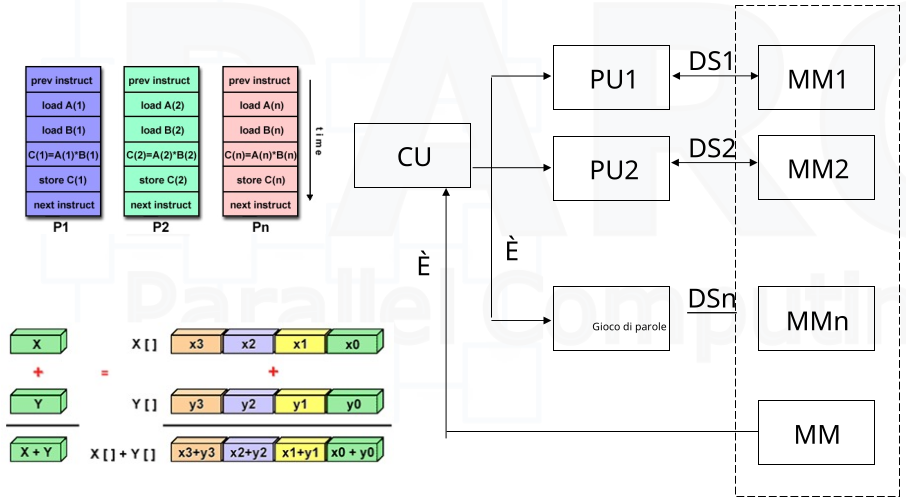
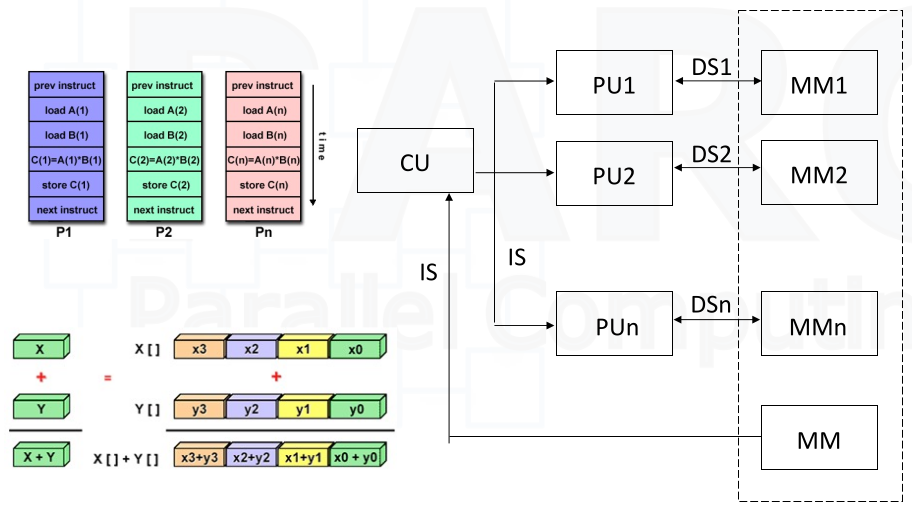
quasi finito cap 3

diff --git a/terminologia.tex b/terminologia.tex
@@ -17,14 +17,14 @@ Nella tassonomia di Flynn, vengono identificate cinque componenti:
 \end{enumerate}
 Le possibili classificazioni sono:
 \begin{enumerate}
-	\item SISD (Single Instruction Single Data): la CU recupera le istruzioni dalla MM, mentre la PU esegue le istruzioni interagendo con MM per modificare i dati;
+	\item SISD (Single Instruction Single Data): la CU recupera le istruzioni dalla MM, mentre la PU esegue le istruzioni interagendo con MM per modificare i dati (figura \ref{fig:sisd});
 	\begin{figure}[th]
 		\centering
 		\includegraphics[width=0.7\linewidth]{img/sisd}
 		\caption{Single Istruction Single Data.}
 		\label{fig:sisd}
 	\end{figure}
-	\item SIMD (Single Instruction Multiple Data): tutte le unità di elaborazione eseguono la stessa istruzione in ogni dato ciclo di clock; ogni unità di elaborazione può operare su un dato diverso;
+	\item SIMD (Single Instruction Multiple Data): tutte le unità di elaborazione eseguono la stessa istruzione in ogni dato ciclo di clock; ogni unità di elaborazione può operare su un dato diverso (figura \ref{fig:simd}); è ideale per problemi specializzati caratterizzati da un elevato grado di regolarità, come l'elaborazione grafica o l'elaborazione di immagini; esecuzione sincrona (\textbf{lockstep}) e deterministica
 	\begin{figure}[th]
 		\centering
 		\includegraphics[width=0.7\linewidth]{img/simd}
@@ -32,7 +32,7 @@ Le possibili classificazioni sono:
 		\label{fig:simd}
 	\end{figure}
 
-	\item MISD (Multple Instruction Single Data): un singolo flusso di dati viene immesso in più unità di elaborazione che opera sui dati in modo indipendente tramite flussi di istruzioni indipendenti. Sono esistiti pochi esempi reali di questa classe di computer paralleli;
+	\item MISD (Multple Instruction Single Data): un singolo flusso di dati viene immesso in più unità di elaborazione che opera sui dati in modo indipendente tramite flussi di istruzioni indipendenti. Sono esistiti pochi esempi reali di questa classe di computer paralleli (figura \ref{fig:misd});
 	\begin{figure}[th]
 		\centering
 		\includegraphics[width=0.7\linewidth]{img/misd}
@@ -40,7 +40,14 @@ Le possibili classificazioni sono:
 		\label{fig:misd}
 	\end{figure}
 
-	\item MIMD (Multple Instruction Multple Data): è il tipo più comune di computer parallelo; ogni processore può eseguire un flusso di istruzioni diverso e lavorare con un flusso di dati diverso. L'esecuzione può essere sincrona o asincrona, deterministica o non deterministica.
+	\item MIMD (Multple Instruction Multple Data): è il tipo più comune di computer parallelo; ogni processore può eseguire un flusso di istruzioni diverso e lavorare con un flusso di dati diverso. L'esecuzione può essere sincrona o asincrona, deterministica o non deterministica (figura \ref{fig:mimd}).
+	\begin{figure}[!th]
+		\centering
+		\includegraphics[width=0.7\linewidth]{img/mimd}
+		\caption{Multiple Instruction Multiple Data.}
+		\label{fig:mimd}
+	\end{figure}
+
 \end{enumerate}
 \subsection{Terminologia delle architetture parallele}
 
@@ -49,10 +56,10 @@ Le possibili classificazioni sono:
 		\textbf{Termine} & \textbf{Significato}
 		\\
 		\hline
-		\textbf{Task} & È un'unità di esecuzione o di lavoro di un programma o di un sottoprogramma.
+		\textbf{Task (sequenziale)} & È un'unità di esecuzione o di lavoro di un programma o di un sottoprogramma. Le istruzioni sono eseguite sequenzialmente ovvero non in parallelo.
 		\\
 		\hline
-		\textbf{Task parallelo}& È un task che può essere eseguito in modo sicuro da più processori.
+		\textbf{Task parallelo}& È un task che può essere eseguito in modo sicuro su più processori. Ciascuna istruzione di un task può essere eseguita in maniera concorrente.
 		\\
 		\hline
 		\textbf{Esecuzione seriale} & È l'esecuzione di un programma in sequenza, una dichiarazione alla volta. Nel senso più semplice questo accade su una macchina con un processore. Tuttavia, praticamente tutte le attività parallele avranno sezioni di un programma parallelo che devono essere eseguite in serie.
@@ -61,16 +68,122 @@ Le possibili classificazioni sono:
 		\textbf{Esecuzione parallela} & È l'esecuzione di un programma da più di un task, in cui ogni attività è in grado di eseguire la stessa o una diversa istruzione simultaneamente.
 		\\
 		\hline
-		\textbf{Pipelining} & Suddivisione di un compito in passaggi eseguiti da diverse unità di elaborazione, con input che scorrono proprio come una catena di montaggio; un tipo di calcolo parallelo.
+		\textbf{Pipelining} & Suddivisione di un compito in passaggi eseguiti da diverse unità di elaborazione, con input che scorrono proprio come una catena di montaggio; un tipo di calcolo parallelo.  La pipeline è un tipo di architettura hardware utilizzata nel progetto dei microprocessori per incrementarne la produttività, ovvero la quantità di istruzioni eseguite nell'unità di tempo. Le istruzioni possono essere di un programma sequenziale. La pipeline può riferirsi anche ad una pipeline di task (ottimizzazione per GPU).
 		\\
 		\hline
-		\textbf{Memoria condivisa} & Dal punto di vista strettamente hardware, descrive un'architettura informatica alla quale tutti i processori hanno accesso diretto (solitamente basato su bus) alla memoria fisica comune; dal punto di vista della programmazione, descrive un modello in cui le attività parallele hanno tutte la stessa "immagine" di memoria e possono indirizzarsi e accedervi direttamente alle stesse locazioni di memoria logiche indipendentemente da dove esiste effettivamente l memoria fisica.
+		\textbf{Memoria condivisa} & Dal punto di vista strettamente hardware, descrive un'architettura informatica alla quale tutti i processori hanno accesso diretto (solitamente basato su bus) alla memoria fisica comune; dal punto di vista software, descrive un modello in cui le attività parallele hanno tutte la stessa "immagine" di memoria (\textbf{spazio di indirizzamento comune}) e possono indirizzarsi e accedervi direttamente alle stesse locazioni di memoria logiche indipendentemente da dove esiste effettivamente la memoria fisica. Se lo spazio di indirizzamento non fosse condiviso, si parla di \textbf{memoria distribuita} (che è il contrario della memoria condivisa).
 		\\
 		\hline
 		\textbf{Multiprocessore simmetrico (SMP)} & Architettura hardware in cui più processori condividono un unico spazio di indirizzi e accedono a tutte le risorse; la computazione avviene su memoria condivisa.
 		\\
 		\hline
-		\textbf{Memoria distribuita} & Nell'hardware, si riferisce all'accesso alla memoria basato sulla rete per la memoria fisica che non è in comune. Come modello di programmazione, le attività possono solo "vedere" logicamente la memoria della macchina locale e devono utilizzare comunicazioni per accedere alla memoria su altre macchine su cui sono in esecuzione altre attività.
+		\textbf{Memoria distribuita} & Dal punto di vista hardware, si riferisce all'accesso alla memoria basato sulla rete per la memoria fisica che non è in comune. Il termine può fare riferimento anche ad un'implementazione software dove le attività possono vedere solo la memoria della macchina locale su una vista logica e devono utilizzare comunicazioni per accedere alla memoria su altre macchine su cui sono in esecuzione altre attività.
+		\\
+		\hline
+		\textbf{Comunicazione} & Le attività parallele in genere necessitano di scambiare dati. Esistono tuttavia diversi modi per ottenere questo risultato, ad esempio tramite un bus di memoria condiviso o tramite una rete, tuttavia l'evento effettivo dello scambio di dati viene comunemente definita \emph{comunicazione} indipendentemente dal metodo utilizzato.
+		\\
+		\hline
+		\textbf{Sincronizzazione} & È il coordinamento di attività parallele in tempo reale, molto spesso associato a comunicazioni. Spesso implementate da stabilire un punto di sincronizzazione all'interno di un'applicazione in cui un'attività non può procedere oltre finché un'altra attività non raggiunge lo stesso punto o logicamente equivalente. La sincronizzazione di solito comporta l'attesa di almeno un'altra attività e può quindi causare un aumento del tempo di esecuzione del clock delle applicazioni parallele.
+		\\
+		\hline
+		\textbf{Granularità} & Nel calcolo parallelo, la granularità è una misura quantitativa del rapporto tra il calcolo e la comunicazione. La granularità può essere:
+		\begin{itemize}
+			\item \textbf{grossolana:} tra gli eventi di comunicazione vengono eseguite quantità di lavoro computazionale relativamente grandi;
+			\item \textbf{fine:} tra gli eventi di comunicazione vengono eseguite quantità di lavoro computazionale relativamente piccole.
+		\end{itemize}
+		\\
+		\hline
+		\textbf{Accelerazione osservata} & È definita come: $speedup = \frac{execTimeSerial}{execTimeParallel}$ e rappresenta uno degli indicatori più semplici e utilizzati per la performance di un programma parallelo.
+		\\
+		\hline
+		\textbf{Overhead parallelo} & È l'ammontare di tempo richiesto per coordinare task paralleli anziché per eseguire la parte utile del lavoro. L'overhead parallelo può includere fattori come:
+		\begin{itemize}
+			\item tempo di avvio dei task;
+			\item tempo per le sincronizzazioni tra task;
+			\item tempo per le comunicazioni di dati tra task;
+			\item overhead del software imposto da compilatori paralleli, librerie, strumenti, sistema operativo, \dots
+			\item tempo di completamento dei task.
+		\end{itemize}
+		\\
+		\hline
+		\textbf{Massivamente parallelo} &  Si riferisce all'hardware che comprende un dato sistema parallelo, dotato di molti processori. Il significato di "molti" continua ad aumentare, ma attualmente i computer più grandi possono essere costituiti da processori che si contano nell'ordine di centinaia di migliaia.
+		\\
+		\hline
+		\textbf{Imbarazzantemente parallelo} & Indica l'azione di risolvere simultaneamente task simili ma indipendenti; la coordinazione tra task è quasi assente o completamente assente.
+		\\
+		\hline
+		\textbf{Scalabilità} & Si riferisce alla capacità di un sistema parallelo (HW e/o SW) di dimostrare un aumento proporzionale della velocità parallela con l'aggiunta di più processori. I fattori che contribuiscono alla scalabilità includono:
+		\begin{itemize}
+			\item HW: in particolare larghezze di banda della memoria-cpu e comunicazioni attraverso la rete;
+			\item l'algoritmo dell'applicazione;
+			\item relativo all'overhead parallelo;
+			\item caratteristiche specifiche dell'applicazione e codifica
+		\end{itemize}
+		\\
+		\hline
+		\textbf{Processori multi-core} & Processori in cui sono presenti più core su un singolo chip
+		\\
+		\hline
+		\textbf{Computazione in cluster} & Utilizzo di una combinazione di unità di calcolo di base (processori, reti o SMP) per costruire un sistema parallelo.
+		\\
+		\hline
+		\textbf{Supercomputing / Calcolo ad alte prestazioni} & Utilizzo delle macchine più veloci e più grandi al mondo per risolvere problemi molto complessi (le unità di calcolo di cui sono composti non devono necessariamente essere omogenei).
+		\\
+		\hline
+		\textbf{Edge computing} & Distribuire il paradigma informatico che avvicina il calcolo e l'archiviazione dei dati al luogo in cui si trovano. Necessario per migliorare i tempi di risposta e risparmiare larghezza di banda.
 		\\
 		\hline
 	\end{longtable}
+\subsubsection{Tipi di memoria}
+La \textbf{cache} è un'area di memoria estremamente veloce ma solitamente di un basso ordine di grandezza di capacità. Il suo scopo è di velocizzare l'esecuzione dei programmi.
+
+La figura \ref{fig:uma} è un esempio di memoria condivisa. I computer paralleli con memoria condivisa variano ampiamente, ma generalmente hanno in comune la capacità di tutti i processori di accedere a tutta la memoria come spazio di indirizzi globale. Più processori possono funzionare in modo indipendente ma condividono le stesse risorse di memoria. Le modifiche in una posizione di memoria effettuate da un processore sono visibili a tutti gli altri processori. Le macchine a memoria condivisa possono essere divise in due classi principali in base ai tempi di accesso alla memoria:
+\begin{enumerate}
+	\item UMA (Unified Memory Access): i processori sono identici, il tempo e la modalità di accesso alla memoria sono gli stessi per tutti i processori (figura \ref{fig:uma}). A volte chiamato \textbf{CC-UMA} (\emph{Cache Coherent UMA}). \textbf{Coerenza} della cache significa che se un processore aggiorna una posizione nella memoria condivisa, tutti gli altri processori vengono a conoscenza dell'aggiornamento. La coerenza della cache viene raggiunta a livello hardware.
+	\begin{figure}[th]
+		\centering
+		\includegraphics[width=0.7\linewidth]{img/UMA}
+		\caption{Memoria condivisa di classe UMA.}
+		\label{fig:uma}
+	\end{figure}
+	\item NUMA (Not Unified Memory Access): spesso realizzato collegando fisicamente due o più SMP; un SMP può accedere direttamente alla memoria di un altro SMP. Non tutti i processori hanno lo stesso tempo di accesso a tutte le memorie. L'accesso alla memoria attraverso il bus è più lento. Se viene mantenuta la coerenza della cache, la memoria si dice \textbf{CC-NUMA} (\emph{Cache Coherent NUMA}).
+	\begin{figure}[th]
+		\centering
+		\includegraphics[width=0.7\linewidth]{img/NUMA}
+		\caption{Memoria condivisa di classe NUMA.}
+		\label{fig:numa}
+	\end{figure}
+\end{enumerate}
+	\subsubsection{Vantaggi e svantaggi di una memoria condivisa.} Vantaggi di avere una memoria condivisa sono:
+	\begin{itemize}
+		\item lo spazio degli indirizzi globale fornisce alla memoria una prospettiva di programmazione user-friendly; \item la condivisione dei dati tra le attività è veloce e uniforme alla vicinanza della memoria alle CPU.
+	\end{itemize}
+	Gli svantaggi sono:
+	\begin{itemize}
+		\item mancanza di scalabilità tra memoria e CPU; \item diventa sempre più difficile e costoso progettare e produrre macchine a memoria condivisa con un numero sempre crescente di processori.
+	\end{itemize}
+
+Come i sistemi di memoria condivisa, i sistemi di memoria distribuita variano ampiamente ma condividono una caratteristica comune. Per connettere la memoria inter-processore, il sistema richiede una rete di comunicazione.
+I processori hanno la propria memoria locale. Gli indirizzi di memoria in un processore non vengono mappati su un altro processore, quindi non esiste il concetto di \textbf{spazio degli indirizi globale} su tutti i processori.
+
+Poiché ogni processore ha la propria memoria locale, funziona in modo indipendente. Le modifiche apportate alla memoria non hanno effetto sulla memoria degli altri processori. Pertanto, il concetto di coerenza della cache non si applica.
+Quando un processore ha bisogno di accedere ai dati in un altro processore, solitamente è compito del programmatore definire esplicitamente come e quando i dati vengono comunicati. Anche la sincronizzazione tra i compiti è responsabilità del programmatore.
+
+\subsubsection{Vantaggi e svantaggi di una memoria distribuita.} I vantaggi di avere una memoria distribuita sono:
+\begin{itemize}
+	\item la \textbf{memoria} è \textbf{scalabile} con il numero di processori; \item aumenta il numero di processori e la dimensione della memoria aumenta proporzionalmente; \item ogni processore può accedere rapidamente alla propria memoria senza interferenze e senza il sovraccarico sostenuto nel tentativo di mantenere la coerenza della cache. \item in termini di costi, la memoria distribuita è efficace, poiché può utilizzare processori e reti standard disponibili in commercio.
+\end{itemize}
+Gli svantaggi sono i seguenti:
+\begin{itemize}
+	\item il programmatore è responsabile per molti dei dettagli associati alla comunicazione dei dati tra i processori. \item potrebbe essere difficile mappare su questa organizzazione della memoria le strutture dati esistenti, basate sulla memoria globale; \item tempi di accesso alla memoria non uniforme (NUMA).
+\end{itemize}
+\subsubsection{Memoria ibrida distribuita-condivisa} I computer più grandi e veloci del  mondo oggi impiegano questo tipo di architettura (figura \ref{fig:hybrid-memory}). Il componente di memoria condivisa è solitamente una macchina SMP coerente con la cache. I processori su un dato SMP possono indirizzare la memoria di quella macchina come globale.
+
+\begin{figure}[th]
+	\centering
+	\includegraphics[width=0.7\linewidth]{img/hybrid-memory}
+	\caption{Memoria ibrida distribuita-condivisa.}
+	\label{fig:hybrid-memory}
+\end{figure}
+
+Il componente di memoria distribuita è il collegamento in rete di più SMP. Gli SMP conoscono solo la propria memoria, non quella di un altro SMP. Pertanto, le comunicazioni di rete sono necessarie per spostare i dati da un SMP all'altro. I vantaggi e gli svantaggi sono tutto ciò che è comune alle architetture di memoria e distribuita.

diff --git a/modelli-programmazione-parallela.tex b/modelli-programmazione-parallela.tex
@@ -1,0 +1,96 @@
+\section{Modelli di programmazione parallela}
+Esistono diversi modelli di programmazione parallela comunemente usati come la \textbf{memoria condivisa}, le \textbf{threads}, il \textbf{passaggio di messaggi}, il \textbf{parallelismo dei dati} e un approccio \textbf{ibrido}. Questi modelli sono un astrazione dell'hardware e delle architetture di memoria sottostanti.
+
+Questi modelli non sono specifici di una particolare macchina o architettura di memoria. In effetti, ciascuno di questi modelli può essere implementato su qualsiasi hardware sottostante. Due esempi:
+\begin{enumerate}
+	\item modello di memoria condivisa su una memoria distribuita: approccio KSR (\textit{Kendall Square Research}) ALLCACHE. La memoria della macchina era distribuita fisicamente, ma appariva all'utente come un'unica memoria condivisa (spazio di indirizzi globale). Genericamente questo approccio viene definito come \textit{"macchina virtuale condivisa"};
+	\item modello di passaggio del messaggio su una macchina con memoria condivisa. MPI su SGI Origin. SGI Origin utilizzava un'architettura di memoria condivisa di tipo CC-NUMA, in cui ogni attività ha accesso diretto alla memoria globale. Tuttavia, la capacità di inviare e ricevere messaggi con MPI, come avviene comunemente su una rete di macchine a memoria distribuita, non solo è implementata ma è utilizzata molto comunemente.
+\end{enumerate}
+
+Quale modello utilizzare è spesso una combinazione di ciò che è disponibile e di una scelta personale. Non esiste un modello "migliore", anche se esistono certamente implementazioni migliori di alcuni modelli rispetto ad altri.
+
+\subsection{Modello di memoria condivisa} Nel modello di programmazione a memoria condivisa, le attività condividono uno spazio di indirizzi comune, che leggono e scrivono in modo asincrono. Vari meccanismi come lock o semafori possono essere utilizzati per controllare l'accesso alla memoria condivisa. Un vantaggio di questo modello dal punto di vista del programmatore è che manca la nozione di "proprietà" dei dati. Infatti non è necessario specificare esplicitamente la comunicazione dei dati tra le attività. Lo sviluppo del programma può essere semplificato. Uno svantaggio importante in termini di prestazioni è che diventa difficile comprendere e gestire la località dei dati. In effetti, risulta necessario mantenere i dati locali rispetto al processore che li utilizza, preserva gli accessi alla memoria, gli aggiornamenti della cache e il traffico del bus che si verifica quando più processori utilizzano gli stessi dati.
+
+\subsubsection{Implementazione del modello di memoria condivisa} Sulle piattaforme di memoria condivisa, i compilatori nativi traducono variabili del programma utente in indirizzi di memoria effettivi, che sono globali. Attualmente non esistono implementazioni comuni della piattaforma di memoria distribuita. Tuttavia, l'approccio KSR ALLCACHE forniva una visualizzazione della memoria condivisa dei dati anche se la memoria fisica della macchina era distribuita.
+\subsection{Modello con le thread}
+\begin{figure}[th]
+	\centering
+	\includegraphics[width=0.7\linewidth]{img/modello-thread}
+	\caption{modello con le thread.}
+	\label{fig:modello-thread}
+\end{figure}
+Nel modello con le thread della programmazione parallela (figura \ref{fig:modello-thread}), un singolo processo può avere più percorsi di esecuzione simultanei. Forse l'analogia più semplice che può essere utilizzata per descrivere le thread, è il concetto di un singolo programma che include un numero di subroutine.
+\begin{itemize}
+	\item il programma principale a.out è pianificato per l'esecuzione dal sistema operativo. a.out carica ed acquisisce tutte le risorse utente e di sistema necessarie per l'esecuzione;
+	\item a.out esegue del lavoro seriale e quindi crea una serie di thread che possono essere pianificate ed eseguite contemporaneamente dal sistema operativo;
+	\item ogni thread ha dati locali, ma condivide anche tutte le risorse di a.out. Ciò consente di risparmiare il sovraccarico associato alla replica delle risorse di un programma per ciascuna thread. Ogni thread beneficia anche di una vista globale della memoria perché condivide lo spazio di memoria di a.out;
+	\item il lavoro di una thread può essere meglio descritto come una subroutine all'interno del programma principale. Qualsiasi thread può eseguire qualsiasi subroutine contemporaneamente agli altri thread.
+	\item le thread comunicano tra loro attraverso la memoria globale (in cui gli indirizzi vengono aggiornati). Ciò richiede costrutti di sincronizzazione per garantire che più di un thread non aggiorni lo stesso indirizzo globale in qualsiasi momento;
+	\item le thread possono nascere e morire, ma a.out rimane presente per fornire le risorse condivise necessarie fino al completamento dell'applicazione.
+\end{itemize}
+
+\subsubsection{Implementazione del modello dei thread} Le thread sono comunemente associate ad architetture di memoria condivisa e a sistemi operativi. Dal punto di vista della programmazione, le implementazioni delle thread comprendono comunemente:
+\begin{itemize}
+	\item una libreria di subroutine chiamate dal codice sorgente parallelo \item un insieme di direttive del compilatore incorporate nel codice sorgente seriale o parallelo.
+\end{itemize}
+In entrambi i casi, il programmatore è responsabile della determinazione di tutto il parallelismo.
+
+Le implementazioni threaded non sono nuove nell'informatica. Storicamente, i fornitori di hardware hanno implementate le proprie versioni proprietarie delle thread, che differivano sostanzialmente l'una dall'altra, rendendo difficile per i programmatori sviluppare applicazioni threaded portatili.
+
+Gli sforzi di standardizzazione non correlati hanno portato a due implementazioni molto diverse delle thread:
+\begin{enumerate}
+	\item thread POSIX: sono specifiche del linguaggio C; sono comunemente indicate come \textit{Pthreads}; molti venditori di hardware le forniscono in aggiunta alle loro implementazioni proprietarie; il parallelismo è molto esplicito;
+	\item OpenMP: è basato sulle direttive del compilatore; può utilizzare il codice seriale; definito e approvato congiuntamente da un gruppo di importanti fornitori di hardware e software per computer; è disponibile nelle implementazioni C/C++ e Fortran; è molto facile e semplice da usare: prevede il "parallelismo incrementale".
+\end{enumerate}
+\subsection{Modello di trasmissione dei messaggi}
+\begin{figure}[th]
+	\centering
+	\includegraphics[width=0.7\linewidth]{img/modello-trasmissione-messaggi}
+	\caption{modello di trasmissione dei messaggi.}
+	\label{fig:modello-trasmissione-messaggi}
+\end{figure}
+Il modello di trasmissione dei messaggi (figura \ref{fig:modello-trasmissione-messaggi}) dimostra le seguenti caratteristiche:
+\begin{itemize}
+	\item una serie di task che usano la propria memoria locale durante la computazione. Tasks multipli possono risiedere fisicamente sulla stessa macchina e su un numero arbitrario di macchine;
+	\item i task comunicano attraverso l'invio e la ricezione di messaggi;
+	\item il trasferimento dei messaggi di solito richiede l'esecuzione di operazioni cooperative da parte di ciascun processo. Ad esempio, un'operazione di invio deve avere un'operazione di ricezione corrispondente.
+\end{itemize}
+
+\subsubsection{Implementazione del modello di passaggio dei messaggi} Dal punto di vista della programmazione, le implementazioni dello scambio di messaggi comprendono comunemente una libreria di subroutine incorporate nel codice sorgente. Il programmatore è responsabile di tutto il parallelismo. Nel 1992 è stato formato il Forum MPI con l'obbiettivo primario di stabilire un'interfaccia standard per le implementazioni dello scambio di messaggi. MPI è ora lo standard industriale "de facto" per lo scambio di messaggi.
+
+Per le architetture a memoria condivisa, le implementazioni MPI solitamente non utilizzano una rete per le comunicazioni delle attività. Usano la propria memoria condivisa per motivi di prestazioni.
+
+\subsection{Modello data parallel}
+\begin{figure}[th]
+	\centering
+	\includegraphics[width=0.7\linewidth]{img/modello-parallelo-dei-dati}
+	\caption{modello data parallel.}
+	\label{fig:modello-parallelo-dei-dati}
+\end{figure}
+Il modello data parallel (figura \ref{fig:modello-parallelo-dei-dati}) ha le seguenti caratteristiche:
+\begin{itemize}
+	\item la maggior parte del lavoro si concentra sull'esecuzione di operazioni su un set di dati. Il set è generalmente organizzato in una \textbf{struttura  dati comune}, ad esempio un array o un cubo;
+	\item una serie di attività lavora collettivamente sulla stessa struttura dati, tuttavia, ogni attività funziona su una partizione diversa della stessa struttura dati;
+	\item le attività eseguono la stessa operazione sulla loro partizione di lavoro, ad esempio "aggiungi 4 a ogni elemento dell'array";
+	\item nelle architetture a memoria condivisa, tutte le attività possono avere accesso alla struttura dei dati attraverso la memoria globale. Nelle architetture di memoria distribuita la struttura dei dati è suddivisa e risiede come "chunks" (ovvero "pezzi") nella memoria locale di ciascun task.
+\end{itemize}
+
+\subsubsection{Implementazione del modello data parallel} La programmazione con il modello data parallel viene solitamente compiuta scrivendo un programma con costrutti data parallel. I costrutti possono essere chiamati tramite subroutine di una libreria che supporta data parallel o attraverso direttive per un compilatore data parallel.
+
+Le implementazioni più comuni sono:
+\begin{itemize}
+	\item HPF (High Performance Fortran);
+	\item direttive di compilatore;
+\end{itemize}
+
+\subsection{Modello ibrido} È un modello in cui possono essere combinati due o più modelli di programmazione parallela. Un esempio comune è di combinare il MPI (Message Passing Model) con il modello delle thread (thread POSIX) o in alternativa il modello della memoria condivisa (OpenMP).
+
+Un altro esempio comune di modello ibrido consiste nel combinare i dati in parallelo con lo scambio di messaggi.
+\subsection{Modello SPMD (Single Program Multiple Data)} SPMD è in realtà un modello di programmazione di "alto livello" che può essere costruito su qualsiasi combinazione dei modelli di programmazione parallela precedentemente menzionati. Un singolo programma viene eseguito da tutti i task contemporaneamente. In qualsiasi momento, le attività possono eseguire le stesse o differenti istruzioni all'interno dello stesso programma (figura \ref{fig:spmd}).
+\begin{figure}[th]
+	\centering
+	\includegraphics[width=0.7\linewidth]{img/SPMD}
+	\caption{modello SPMD.}
+	\label{fig:spmd}
+\end{figure}
+A differenza di SIMD (Single Instruction Multiple Data), nel SPMD, più processori autonomi eseguono simultaneamente lo stesso programma in punti indipendenti, anziché in unico \textbf{lockstep} che SIMD

diff --git a/appunti-di-parallel-programming.tex b/appunti-di-parallel-programming.tex
@@ -19,9 +19,10 @@
 \begin{document}
 	\maketitle
 	\tableofcontents
-	%\include{introduzione}
+	\include{introduzione}
 	\include{terminologia}
-	%\include{valutazione-performance}
+	\include{modelli-programmazione-parallela}
+	\include{valutazione-performance}
 
 
 
